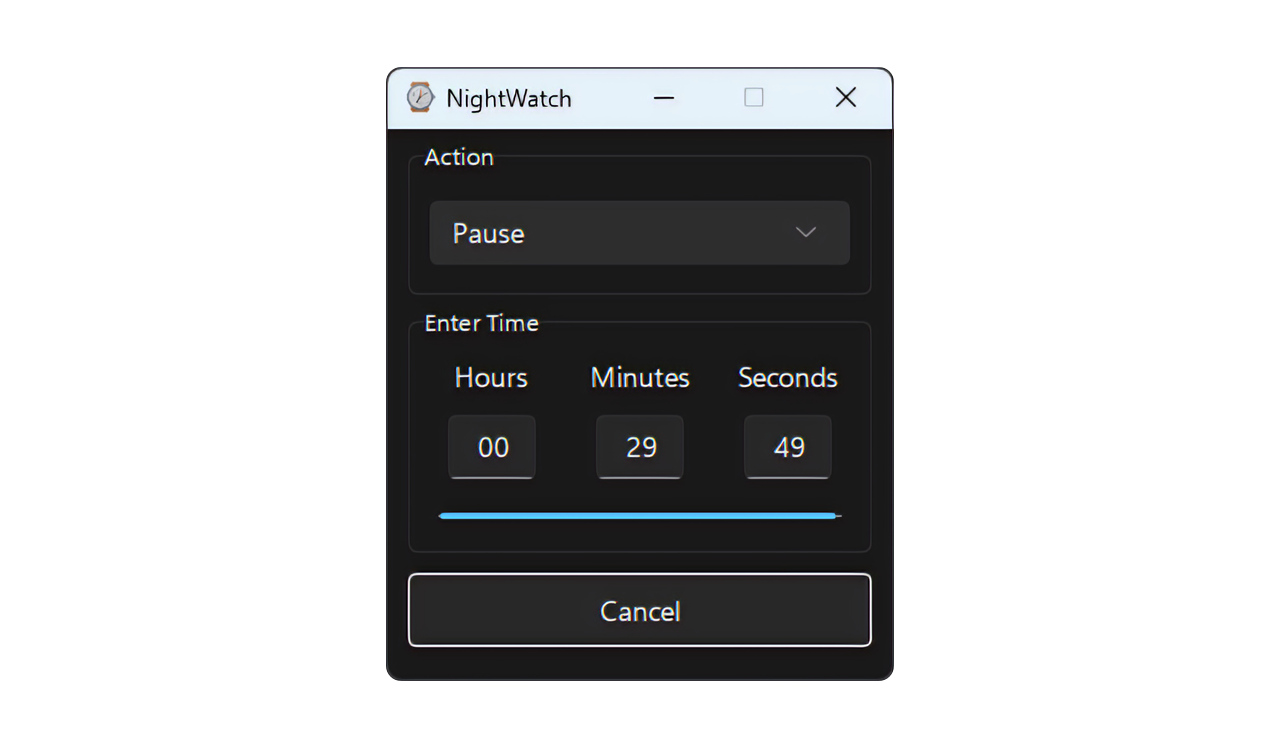
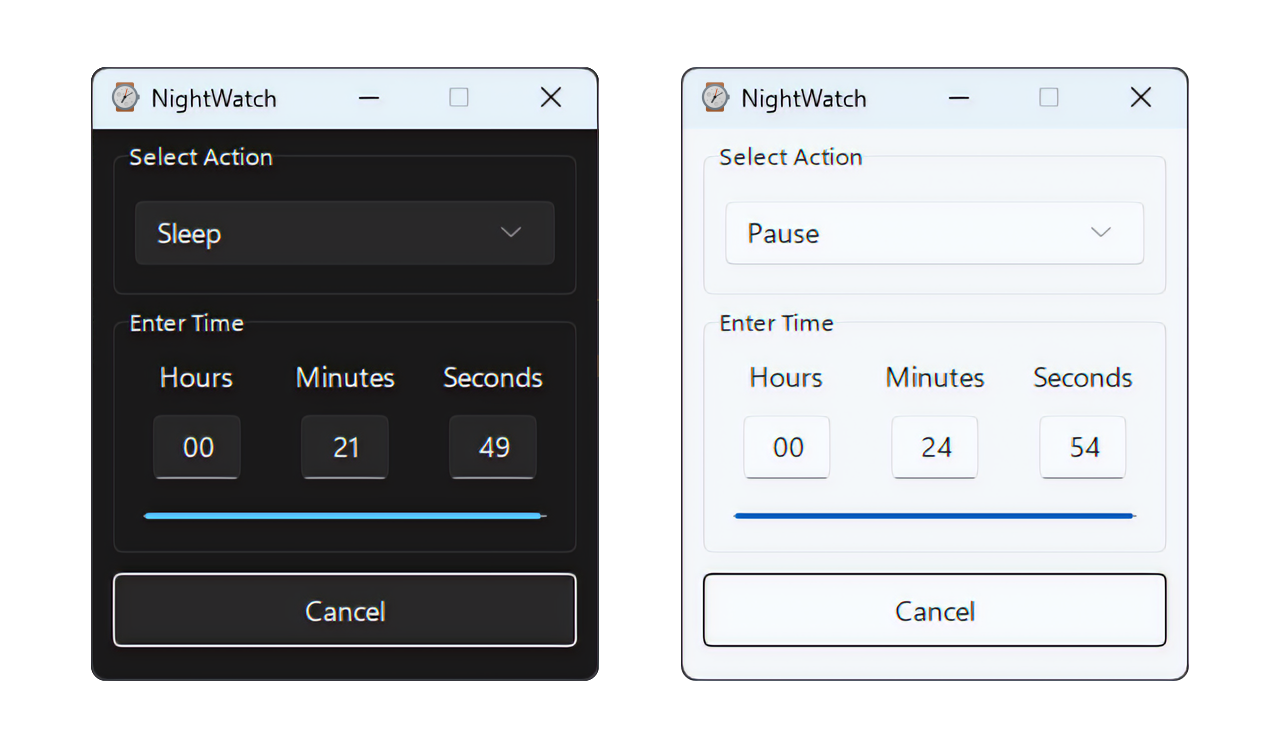
Seperate timer and add light mode

diff --git a/src/main.py b/src/main.py
@@ -12,6 +12,7 @@ from tkinter import messagebox, ttk
 
 import sv_ttk
 from actions import pause_media, shutdown_system, sleep_system
+from timer import CountdownTimer
 
 logging.basicConfig(
     level=logging.INFO, format="%(asctime)s - %(levelname)s - %(message)s"
@@ -68,7 +69,7 @@ class NightWatch(tk.Tk):
         )
 
         self.setup_ui()
-        self.should_stop_countdown = False
+        self.timer = None
 
         try:
             # Attempt to get the EUID
@@ -95,7 +96,14 @@ class NightWatch(tk.Tk):
         self.geometry(f"{width}x{height}+{int(x)}+{int(y)}")
 
         self.iconphoto(True, tk.PhotoImage(file=resource_path("icon.png")))
-        sv_ttk.set_theme("dark")  # Use 'Sun Valley' theme
+
+        if len(sys.argv) > 1 and sys.argv[1].lower() in [
+            "--light-theme",
+            "--light-mode",
+        ]:
+            sv_ttk.set_theme("light")
+        else:
+            sv_ttk.set_theme("dark")
 
     def setup_ui(self):
         """Set up the user interface elements."""
@@ -126,72 +134,52 @@ class NightWatch(tk.Tk):
     def run_timer(self):
         """Start the timer based on user input."""
         try:
-            clock_time = (
-                int(self.hour_string.get()) * 3600
-                + int(self.minute_string.get()) * 60
-                + int(self.second_string.get())
-            )
-            set_time = clock_time
-            self.should_stop_countdown = False
+            hours = int(self.hour_string.get())
+            minutes = int(self.minute_string.get())
+            seconds = int(self.second_string.get())
         except ValueError:
             self.show_error("Invalid values")
             return
 
-        if clock_time <= 0:
+        if hours <= 0 and minutes <= 0 and seconds <= 0:
             self.show_error("A positive number is required")
             return
 
-        def stop_countdown():
-            self.should_stop_countdown = True
+        if self.timer:
+            self.timer.stop()
 
-        self.btn_start_timer.config(text="Cancel", command=stop_countdown)
-
-        self.countdown(clock_time, set_time)
+        self.timer = CountdownTimer(hours, minutes, seconds, self.update_ui)
+        self.timer.start()
+        self.btn_start_timer.config(text="Cancel", command=self.reset_timer)
 
     def show_error(self, message):
         """Display an error message in a message box."""
-        logging.error("Error: %s", message)
-        messagebox.showinfo("NightWatch", message, icon="error")
+        logging.error(str(message))
+        messagebox.showinfo("NightWatch", "Error: " + message, icon="error")
 
-    def countdown(self, clock_time, set_time):
-        """Perform the countdown and update the UI accordingly."""
-        self.should_stop_countdown = False
+    def update_ui(self, hours, minutes, seconds, clock_time, action=False):
+        """Update the UI with the remaining time or execute action."""
+        self.hour_string.set(f"{hours:02d}")
+        self.minute_string.set(f"{minutes:02d}")
+        self.second_string.set(f"{seconds:02d}")
+        self.prg_time_left.configure(value=clock_time, maximum=self.timer.total_time)
+        self.update()
 
-        def tick():
-            nonlocal clock_time
-            self.update()
+        if action:
+            self.execute_action()
 
-            if self.should_stop_countdown:
-                self.reset_timer(set_time)
-                return
-
-            total_minutes, total_seconds = divmod(clock_time, 60)
-            total_hours, total_minutes = divmod(total_minutes, 60)
-
-            self.hour_string.set(f"{total_hours:02d}")
-            self.minute_string.set(f"{total_minutes:02d}")
-            self.second_string.set(f"{total_seconds:02d}")
-
-            self.prg_time_left.configure(value=clock_time, maximum=set_time)
-            logging.debug(clock_time, "seconds left")
-            self.update()
-
-            if clock_time > 0:
-                clock_time -= 1
-                self.after(1000, tick)
-            else:
-                self.execute_action()
-
-        tick()
-
-    def reset_timer(self, set_time):
+    def reset_timer(self):
         """Reset the timer to its initial state."""
+        if self.timer:
+            self.timer.stop()
+            self.timer = None
+
         self.hour_string.set("00")
         self.minute_string.set("00")
         self.second_string.set("00")
-        self.prg_time_left.configure(value=0, maximum=set_time)
+        self.prg_time_left.configure(value=0)
         self.update()
-        logging.info("Timer has been cancelled")
+        logging.info("Timer has been reset")
         self.btn_start_timer.config(text="Start Timer", command=self.run_timer)
 
     def execute_action(self):

diff --git a/src/timer.py b/src/timer.py
@@ -1,0 +1,54 @@
+"""
+This timer runs in a separate thread and calls a callback function at each tick.
+"""
+
+import threading
+import time
+
+
+class CountdownTimer:
+    """
+    A countdown timer that runs in a separate thread and calls a callback function at each tick.
+    """
+
+    def __init__(self, hours, minutes, seconds, callback):
+        """
+        Initializes the CountdownTimer with the specified hours, minutes, and seconds.
+
+        Args:
+            hours (int): The number of hours for the countdown.
+            minutes (int): The number of minutes for the countdown.
+            seconds (int): The number of seconds for the countdown.
+            callback (function): The function to call at each tick of the timer.
+        """
+        self.total_time = hours * 3600 + minutes * 60 + seconds
+        self.callback = callback
+        self._stop_event = threading.Event()
+        self.thread = threading.Thread(target=self._run)
+
+    def start(self):
+        """
+        Starts the countdown timer in a separate thread.
+        """
+        self.thread.start()
+
+    def _run(self):
+        """
+        Runs the countdown logic.
+        """
+        clock_time = self.total_time
+        while clock_time > 0 and not self._stop_event.is_set():
+            hours, remainder = divmod(clock_time, 3600)
+            minutes, seconds = divmod(remainder, 60)
+            self.callback(hours, minutes, seconds, clock_time)
+            time.sleep(1)
+            clock_time -= 1
+
+        if not self._stop_event.is_set():
+            self.callback(0, 0, 0, 0, action=True)
+
+    def stop(self):
+        """
+        Stops the countdown timer.
+        """
+        self._stop_event.set()
